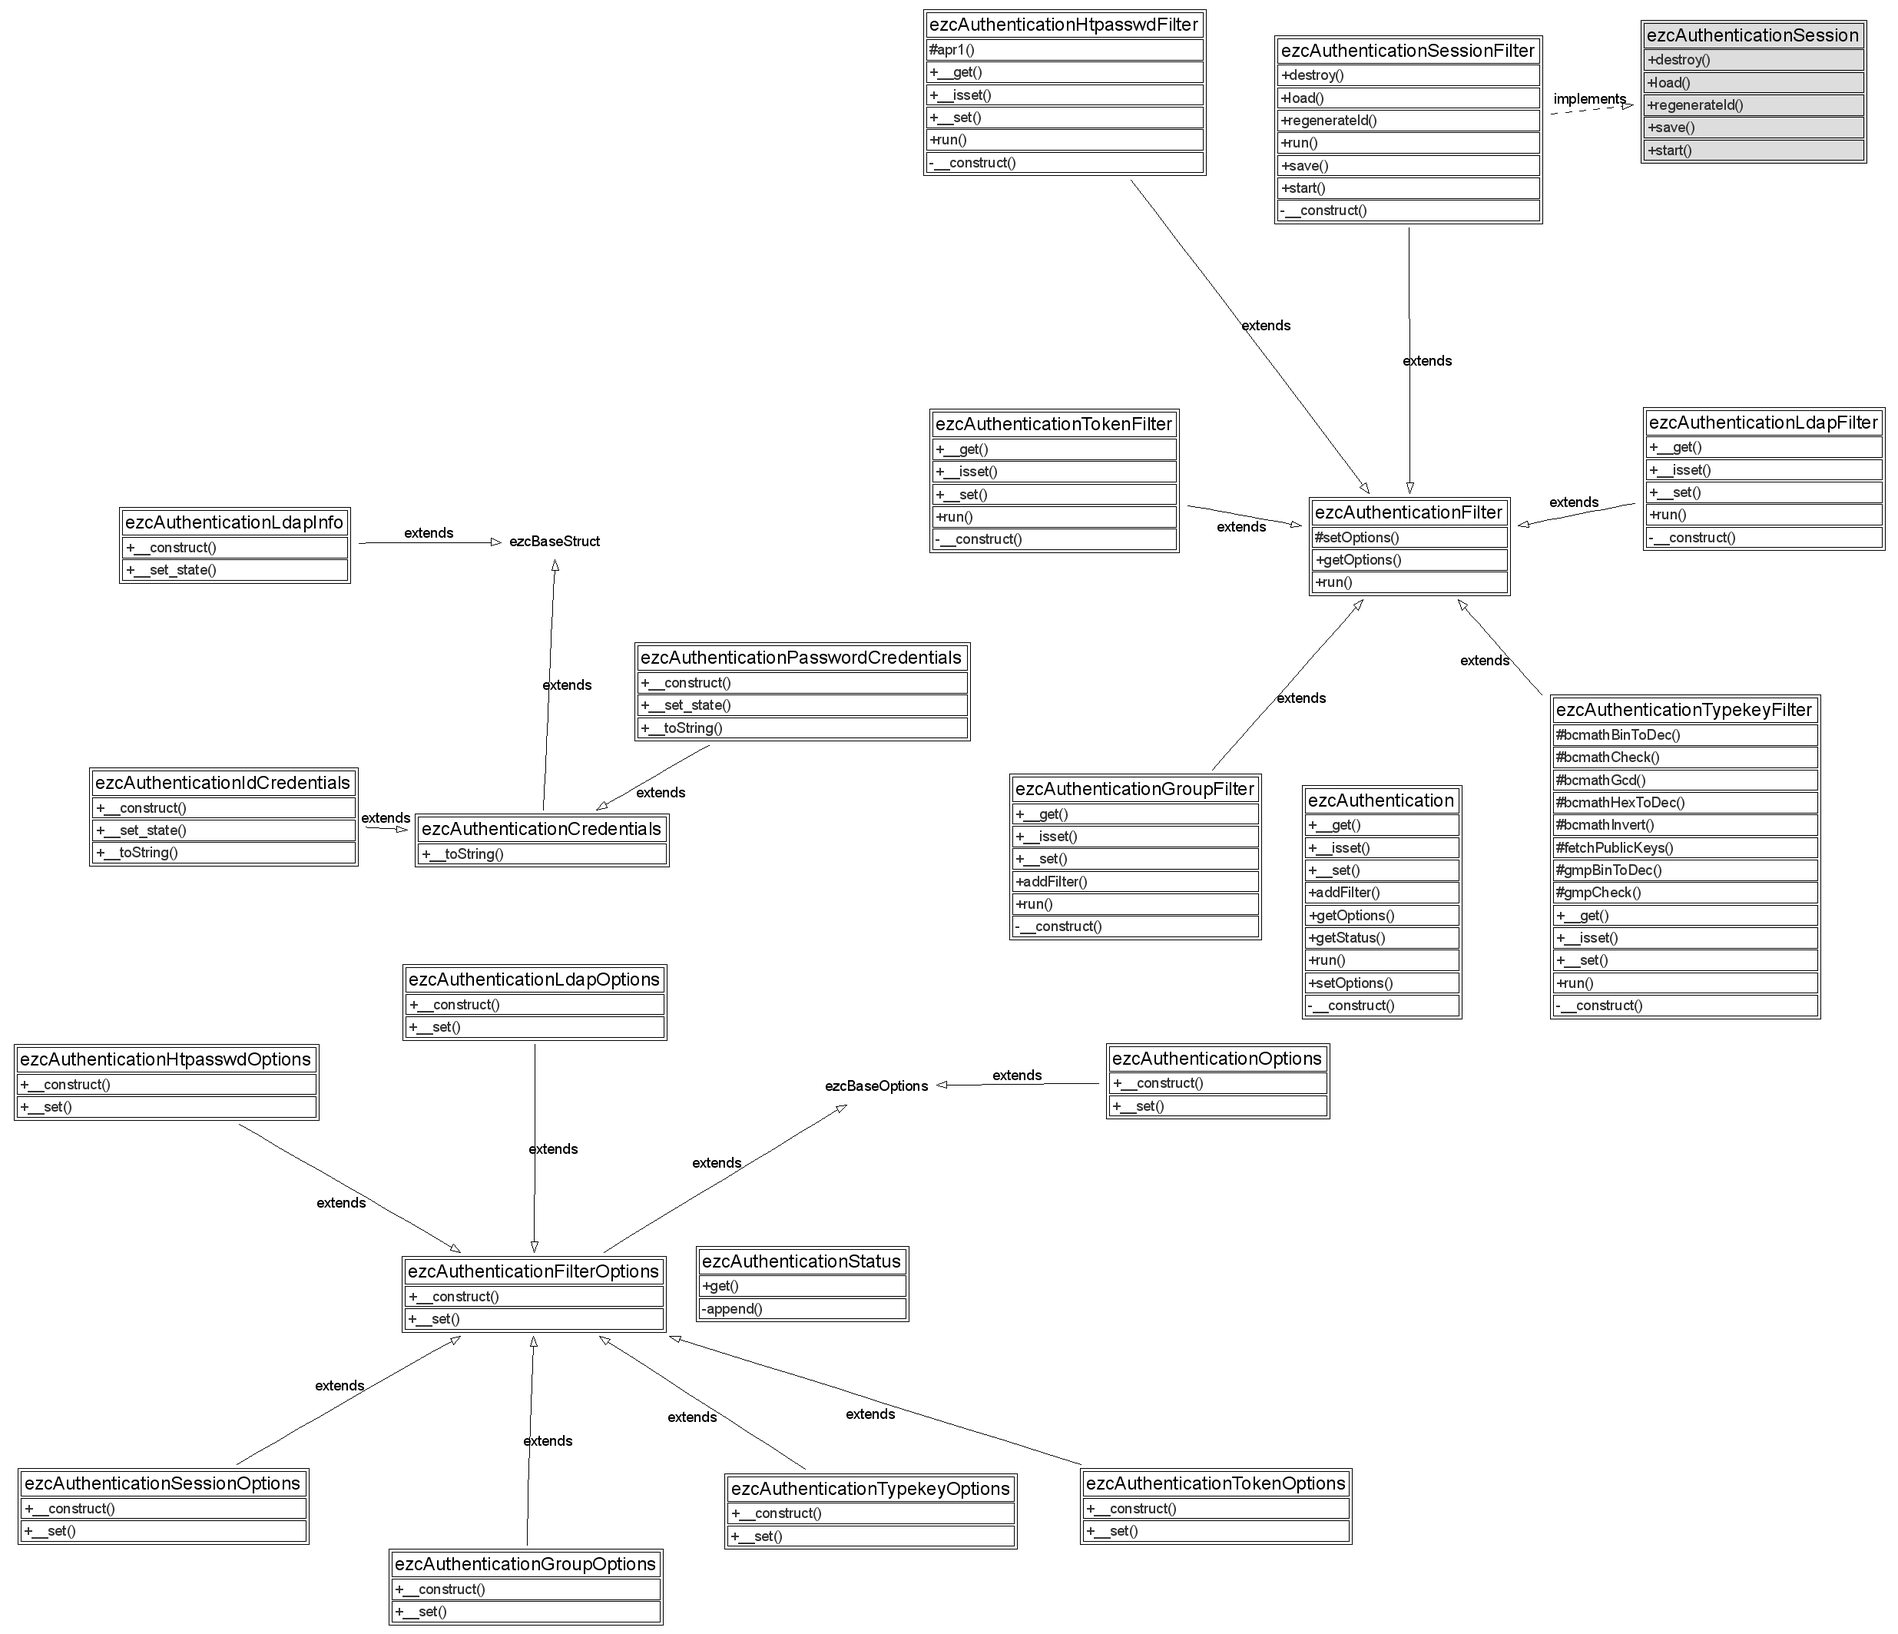
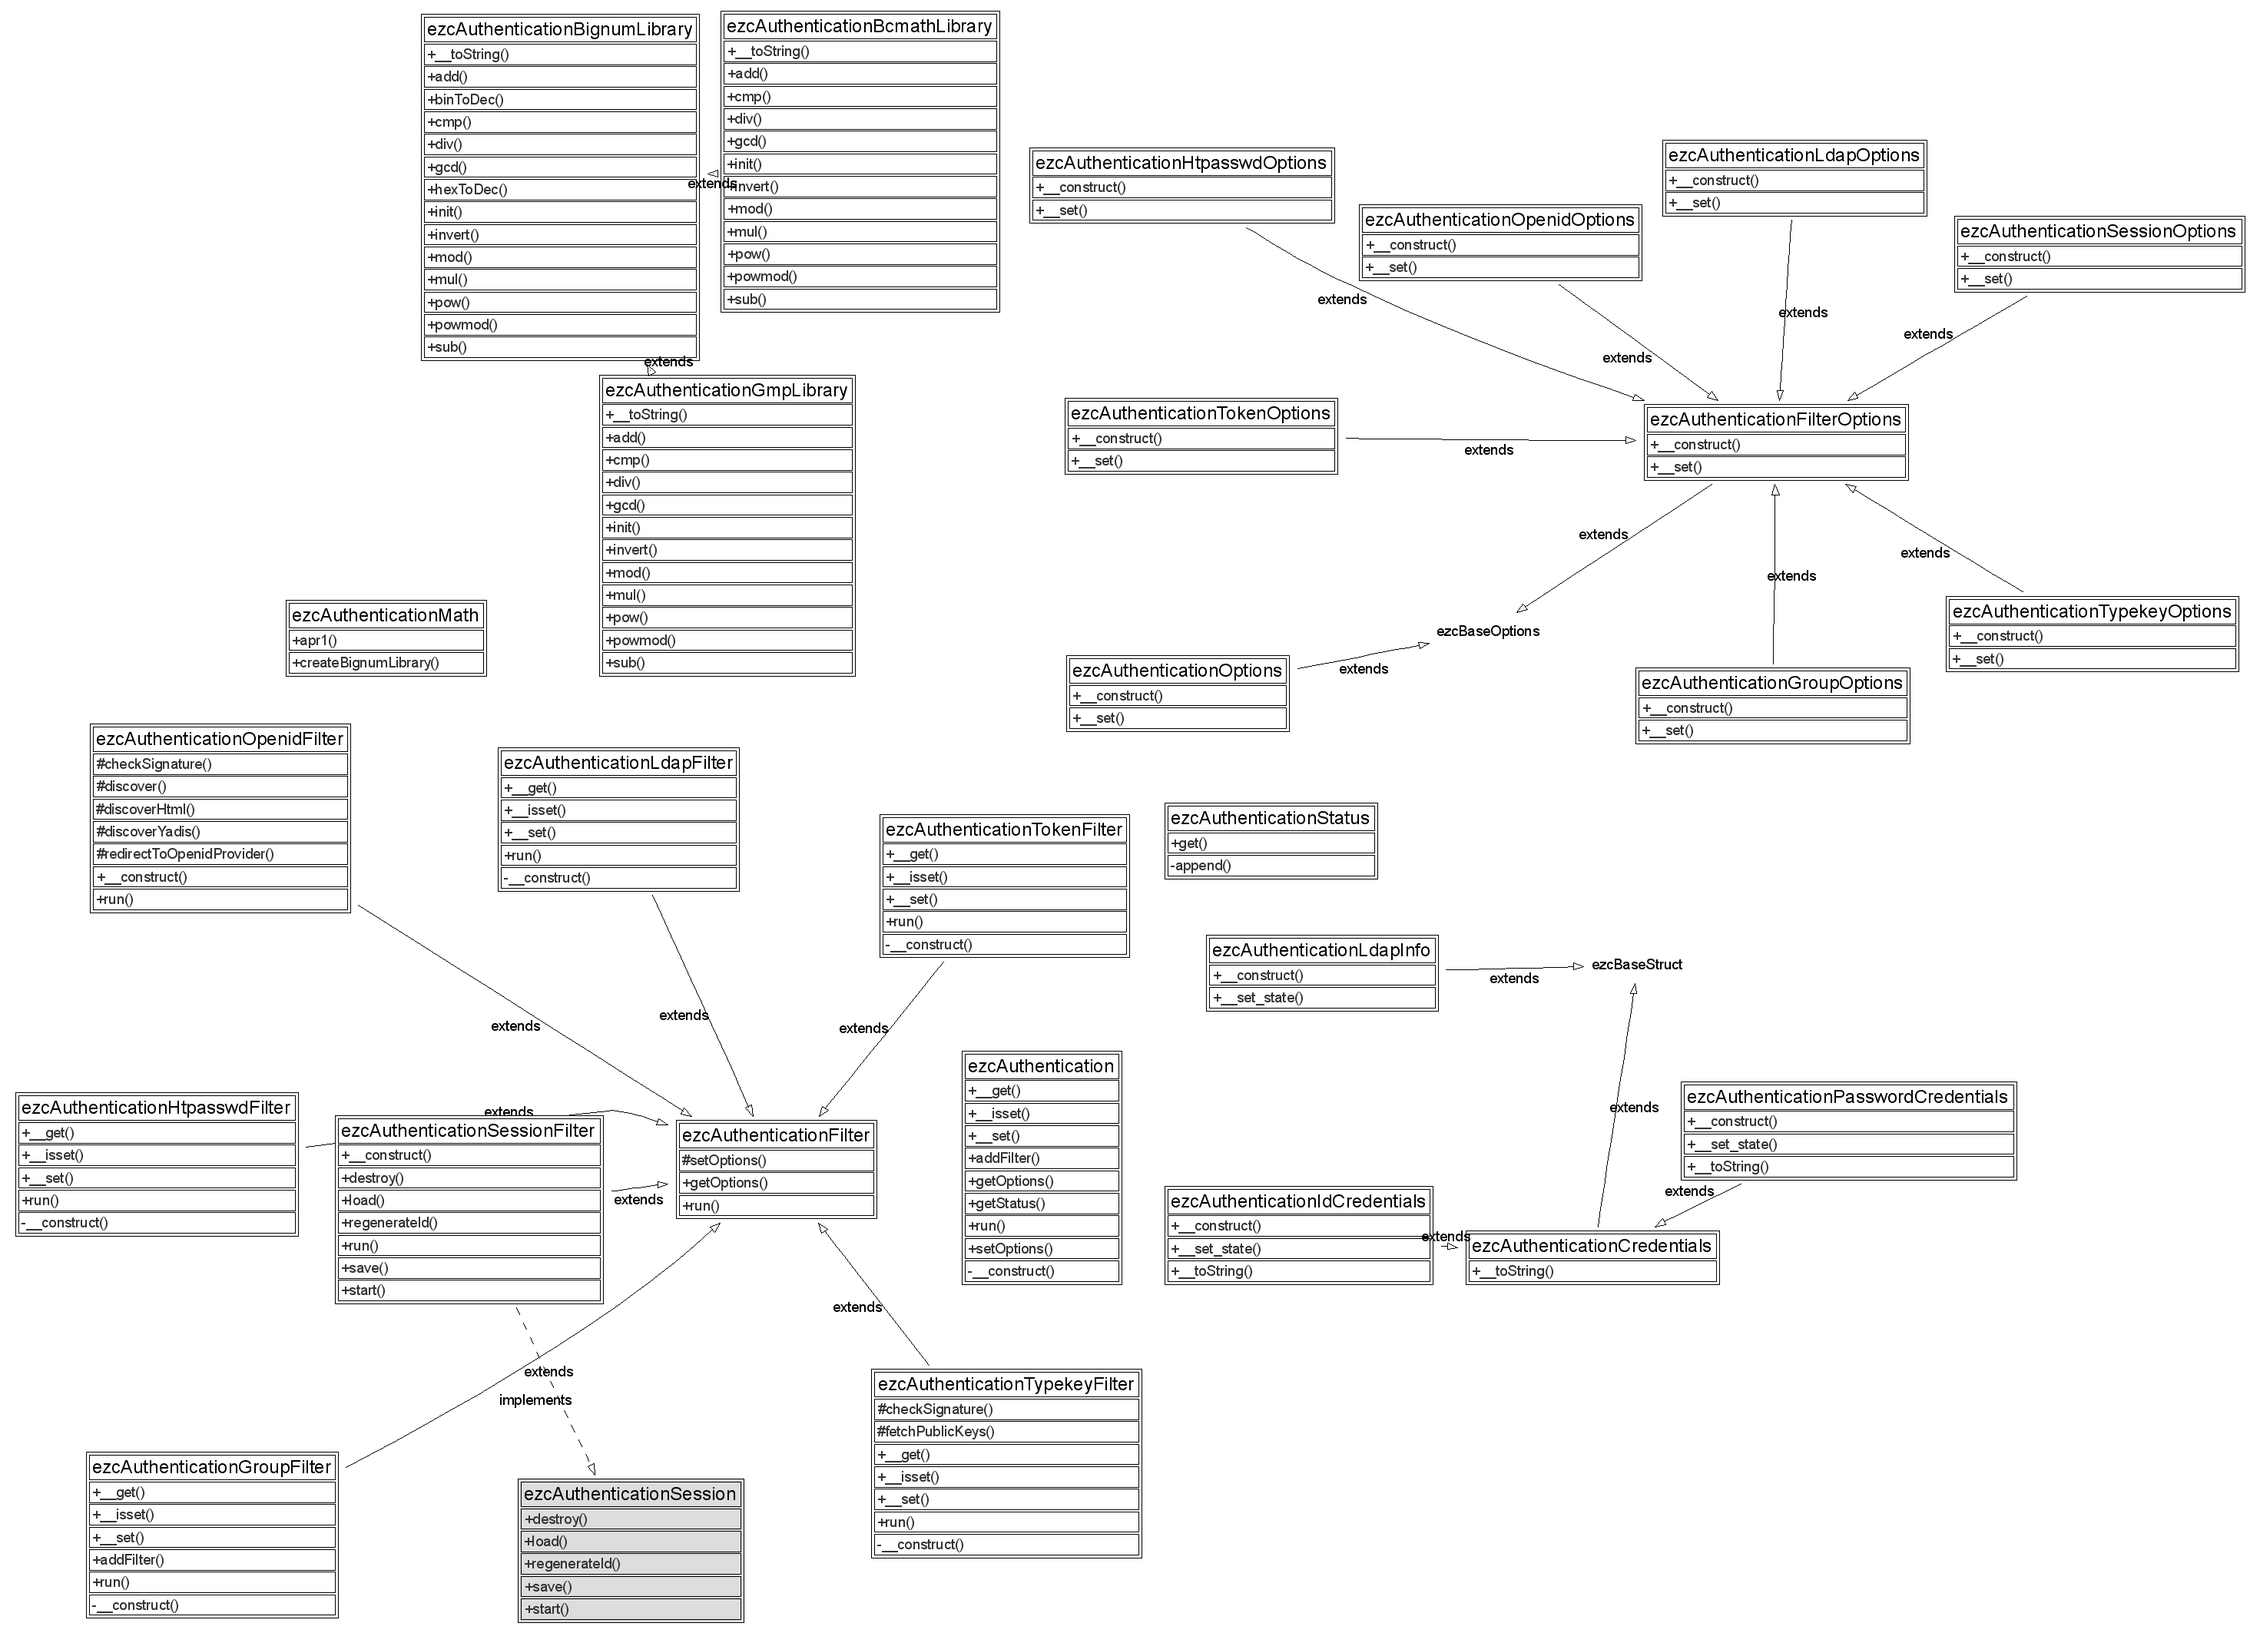
- Updated the class diagram to include OpenID and the Math classes. - Fixed the examples and tutorials.
git-svn-id: http://svn.ez.no/svn/ezcomponents/trunk@5249 bc0e7bdc-f0fc-0310-8ff6-f601c06e1256

diff --git a/Authentication/src/filters/openid/openid_options.php b/Authentication/src/filters/openid/openid_options.php
@@ -28,6 +28,15 @@
  * $filter->setOptions( $options );
  * </code>
  *
+ * @property int $mode
+ *           The OpenID mode to use for authentication. It is either dumb
+ *           (ezcAuthenticationOpenidFilter::MODE_DUMB, default) or smart
+ *           (ezcAuthenticationOpenidFilter::MODE_SMART). In dumb mode
+ *           the OpenID server does most of the work, but an extra check
+ *           is required (check_authentication step). In smart mode the
+ *           server and the OpenIP provider establish a shared secret (with
+ *           an expiry period) that is used to sign the responses, so the
+ *           check_authentication step is not required.
  * @property int $timeout
  *           The amount of seconds allowed as timeout for fetching content
  *           during HTML or Yadis discovery.
@@ -54,6 +63,7 @@ class ezcAuthenticationOpenidOptions extends ezcAuthenticationFilterOptions
      */
     public function __construct( array $options = array() )
     {
+        $this->mode = ezcAuthenticationOpenidFilter::MODE_DUMB; // stateless mode
         $this->timeout = 3; // seconds
         $this->timeoutOpen = 3; // seconds
         $this->requestSource = ( $_GET !== null ) ? $_GET : array();
@@ -76,6 +86,18 @@ class ezcAuthenticationOpenidOptions extends ezcAuthenticationFilterOptions
     {
         switch ( $name )
         {
+            case 'mode':
+                $allowedValues = array(
+                                        ezcAuthenticationOpenidFilter::MODE_DUMB,
+                                        ezcAuthenticationOpenidFilter::MODE_SMART
+                                      );
+                if ( !is_numeric( $value ) || ( in_array( $value, $allowedValues ) )
+                {
+                    throw new ezcBaseValueException( $name, $value, implode( ', ', $allowedModes ) );
+                }
+                $this->properties[$name] = $value;
+                break;
+
             case 'timeout':
             case 'timeoutOpen':
                 if ( !is_numeric( $value ) || ( $value < 1 ) )

diff --git a/Authentication/docs/tutorial/tutorial_openid.php b/Authentication/docs/tutorial/tutorial_openid.php
@@ -28,6 +28,7 @@ if ( !$authentication->run() )
              ezcAuthenticationOpenidFilter::STATUS_SIGNATURE_INCORRECT => 'OpenID said the provided identifier was incorrect',
              ezcAuthenticationOpenidFilter::STATUS_CANCELLED => 'The OpenID authentication was cancelled',
              ezcAuthenticationOpenidFilter::STATUS_URL_INCORRECT => 'The identifier you provided is invalid',
+             ezcAuthenticationSessionFilter::STATUS_EMPTY => '',
              ezcAuthenticationSessionFilter::STATUS_EXPIRED => 'Session expired'
              );
     for ( $i = 0; $i < count( $status ); $i++ )

diff --git a/Authentication/src/filters/openid/openid_filter.php b/Authentication/src/filters/openid/openid_filter.php
@@ -58,6 +58,7 @@
  *              ezcAuthenticationOpenidFilter::STATUS_SIGNATURE_INCORRECT => 'OpenID said the provided identifier was incorrect',
  *              ezcAuthenticationOpenidFilter::STATUS_CANCELLED => 'The OpenID authentication was cancelled',
  *              ezcAuthenticationOpenidFilter::STATUS_URL_INCORRECT => 'The identifier you provided is invalid',
+ *              ezcAuthenticationSessionFilter::STATUS_EMPTY => '',
  *              ezcAuthenticationSessionFilter::STATUS_EXPIRED => 'Session expired'
  *              );
  *     for ( $i = 0; $i < count( $status ); $i++ )

diff --git a/Authentication/docs/tutorial/tutorial_typekey.php b/Authentication/docs/tutorial/tutorial_typekey.php
@@ -21,6 +21,7 @@ if ( !$authentication->run() )
     $err = array(
              ezcAuthenticationTypekeyFilter::STATUS_SIGNATURE_INCORRECT => 'Signature returned by TypeKey is incorrect',
              ezcAuthenticationTypekeyFilter::STATUS_SIGNATURE_EXPIRED => 'The signature returned by TypeKey expired',
+             ezcAuthenticationSessionFilter::STATUS_EMPTY => '',
              ezcAuthenticationSessionFilter::STATUS_EXPIRED => 'Session expired'
              );
     for ( $i = 0; $i < count( $status ); $i++ )

diff --git a/Authentication/src/filters/typekey/typekey_filter.php b/Authentication/src/filters/typekey/typekey_filter.php
@@ -88,6 +88,7 @@
  *     $err = array(
  *              ezcAuthenticationTypekeyFilter::STATUS_SIGNATURE_INCORRECT => 'Signature returned by TypeKey is incorrect',
  *              ezcAuthenticationTypekeyFilter::STATUS_SIGNATURE_EXPIRED => 'The signature returned by TypeKey expired',
+ *              ezcAuthenticationSessionFilter::STATUS_EMPTY => '',
  *              ezcAuthenticationSessionFilter::STATUS_EXPIRED => 'Session expired'
  *              );
  *     for ( $i = 0; $i < count( $status ); $i++ )

diff --git a/Authentication/docs/tutorial/tutorial_session.php b/Authentication/docs/tutorial/tutorial_session.php
@@ -16,6 +16,7 @@ if ( !$authentication->run() )
     $err = array(
              ezcAuthenticationHtpasswdFilter::STATUS_USERNAME_INCORRECT => 'Incorrect username',
              ezcAuthenticationHtpasswdFilter::STATUS_PASSWORD_INCORRECT => 'Incorrect password',
+             ezcAuthenticationSessionFilter::STATUS_EMPTY => '',
              ezcAuthenticationSessionFilter::STATUS_EXPIRED => 'Session expired'
              );
     for ( $i = 0; $i < count( $status ); $i++ )

diff --git a/Authentication/src/filters/session/session_filter.php b/Authentication/src/filters/session/session_filter.php
@@ -43,6 +43,7 @@
  *     $err = array(
  *              ezcAuthenticationHtpasswdFilter::STATUS_USERNAME_INCORRECT => 'Incorrect username',
  *              ezcAuthenticationHtpasswdFilter::STATUS_PASSWORD_INCORRECT => 'Incorrect password',
+ *              ezcAuthenticationSessionFilter::STATUS_EMPTY => '',
  *              ezcAuthenticationSessionFilter::STATUS_EXPIRED => 'Session expired'
  *              );
  *     for ( $i = 0; $i < count( $status ); $i++ )
